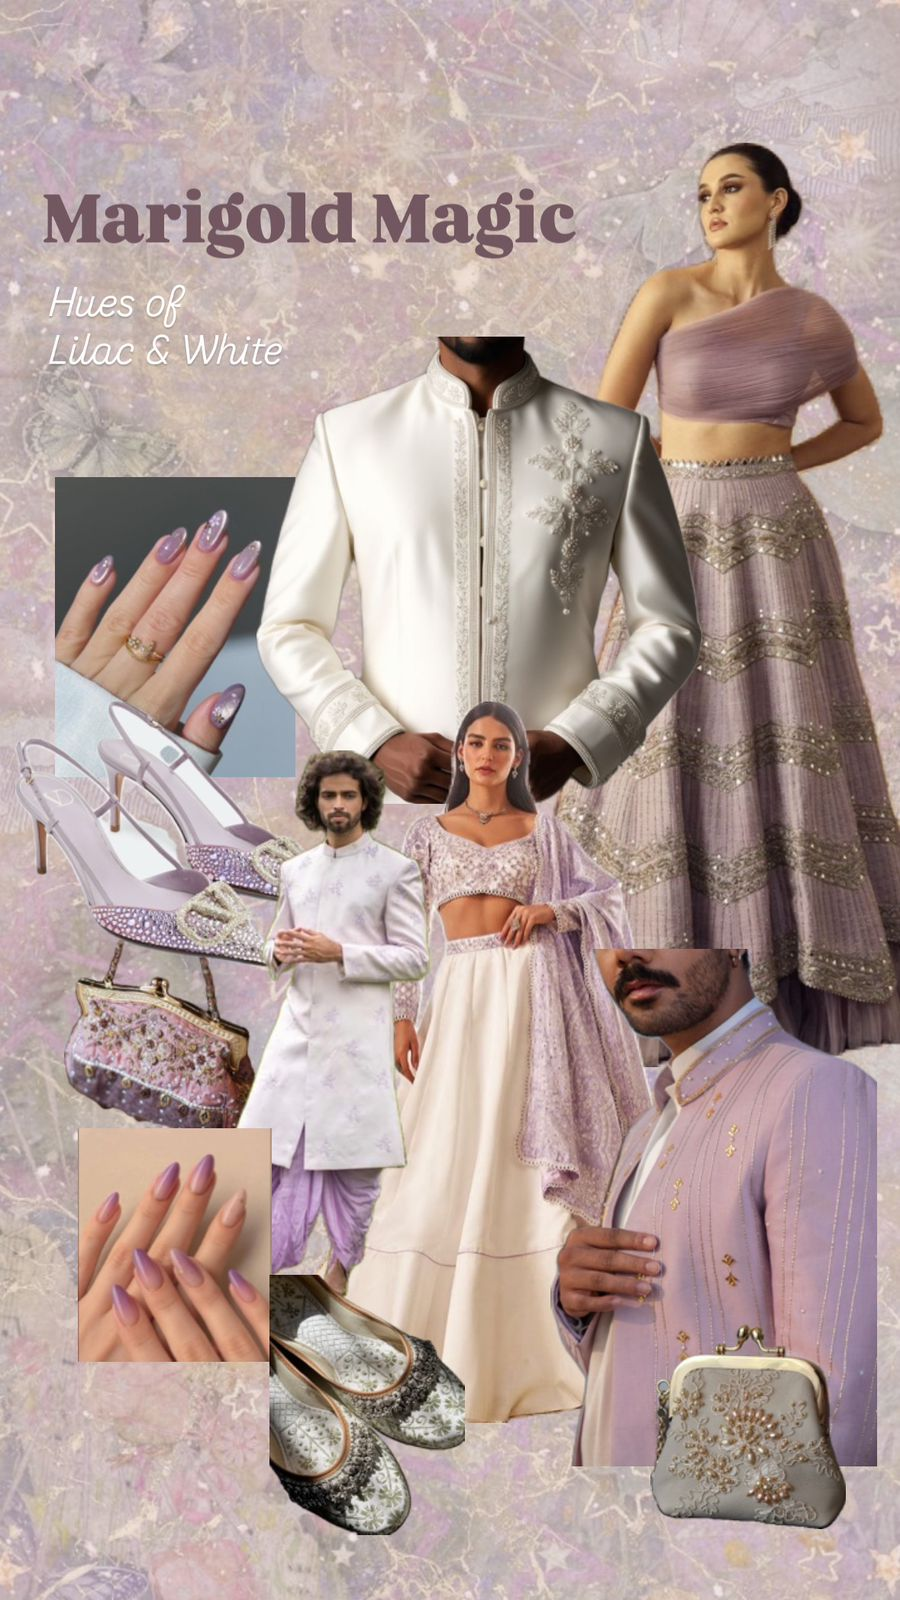
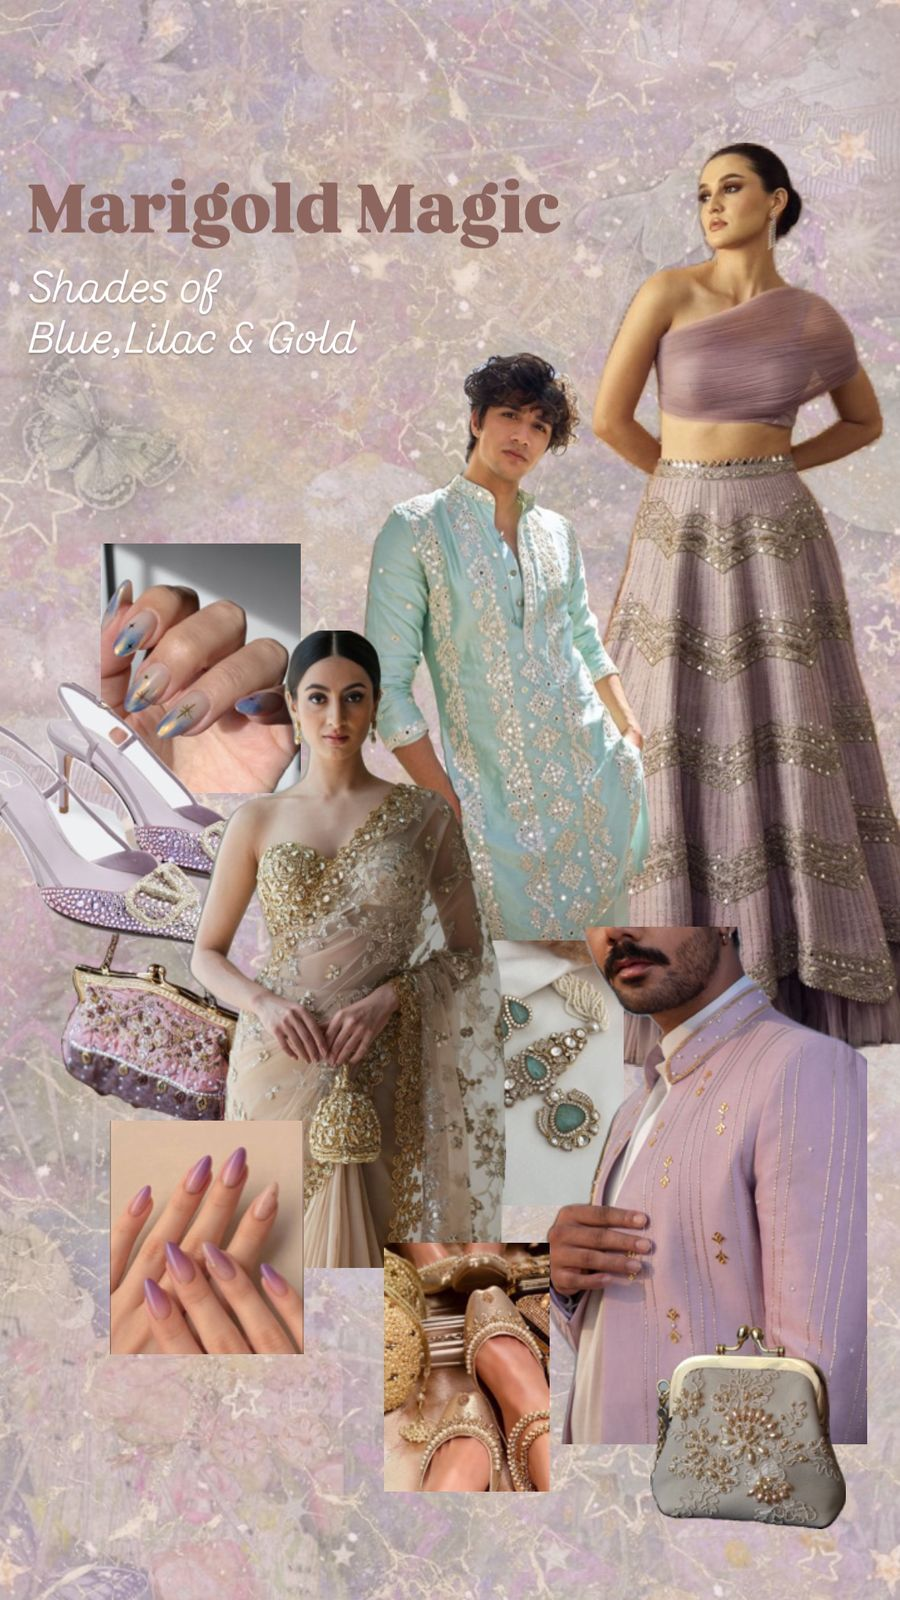
.

diff --git a/pyaarkikashti/src/Gallery.jsx b/pyaarkikashti/src/Gallery.jsx
@@ -16,6 +16,9 @@ const STATIC_IMAGES = [
   { id: 'static-4', url: wedding4 }
 ];
 
+// Placeholder image URL for broken/missing images
+const placeholderImage = "https://via.placeholder.com/400x225?text=Photo+not+found";
+
 export default function GalleryWithUpload() {
   const [photos, setPhotos] = useState([]);
   const [file, setFile] = useState(null);
@@ -42,7 +45,6 @@ export default function GalleryWithUpload() {
     }
   };
 
-  // Cloudinary upload logic
   const handleUpload = async () => {
     if (!file) {
       setMessage('Please select a file to upload.');
@@ -157,6 +159,7 @@ export default function GalleryWithUpload() {
                   alt={photo.caption || 'Wedding Photo'} 
                   className="w-full h-36 sm:h-44 md:h-52 object-cover cursor-pointer transition-transform duration-150 hover:scale-105"
                   onClick={() => { setSelectedImg(photo.url); setShowModal(true); }}
+                  onError={e => { e.target.onerror = null; e.target.src = placeholderImage; }}
                 />
                 {photo.caption && (
                   <div className="p-2 text-purple-700 font-semibold text-center text-xs sm:text-sm">

diff --git a/pyaarkikashti/src/RSVPTable.jsx b/pyaarkikashti/src/RSVPTable.jsx
@@ -23,7 +23,7 @@ function RSVPTable() {
 
   return (
     <div className="p-4 overflow-auto bg-gray-200">
-      <h2 className="text-2xl font-bold mb-6 md:mt-20 text-center text-white">RSVP List</h2>
+      <h2 className="text-2xl font-bold mb-6 mt-20 text-center text-white">RSVP List</h2>
       <table className="min-w-full border-collapse border border-gray-300 bg-pink-100">
         <thead>
           <tr className="bg-gray-100">
